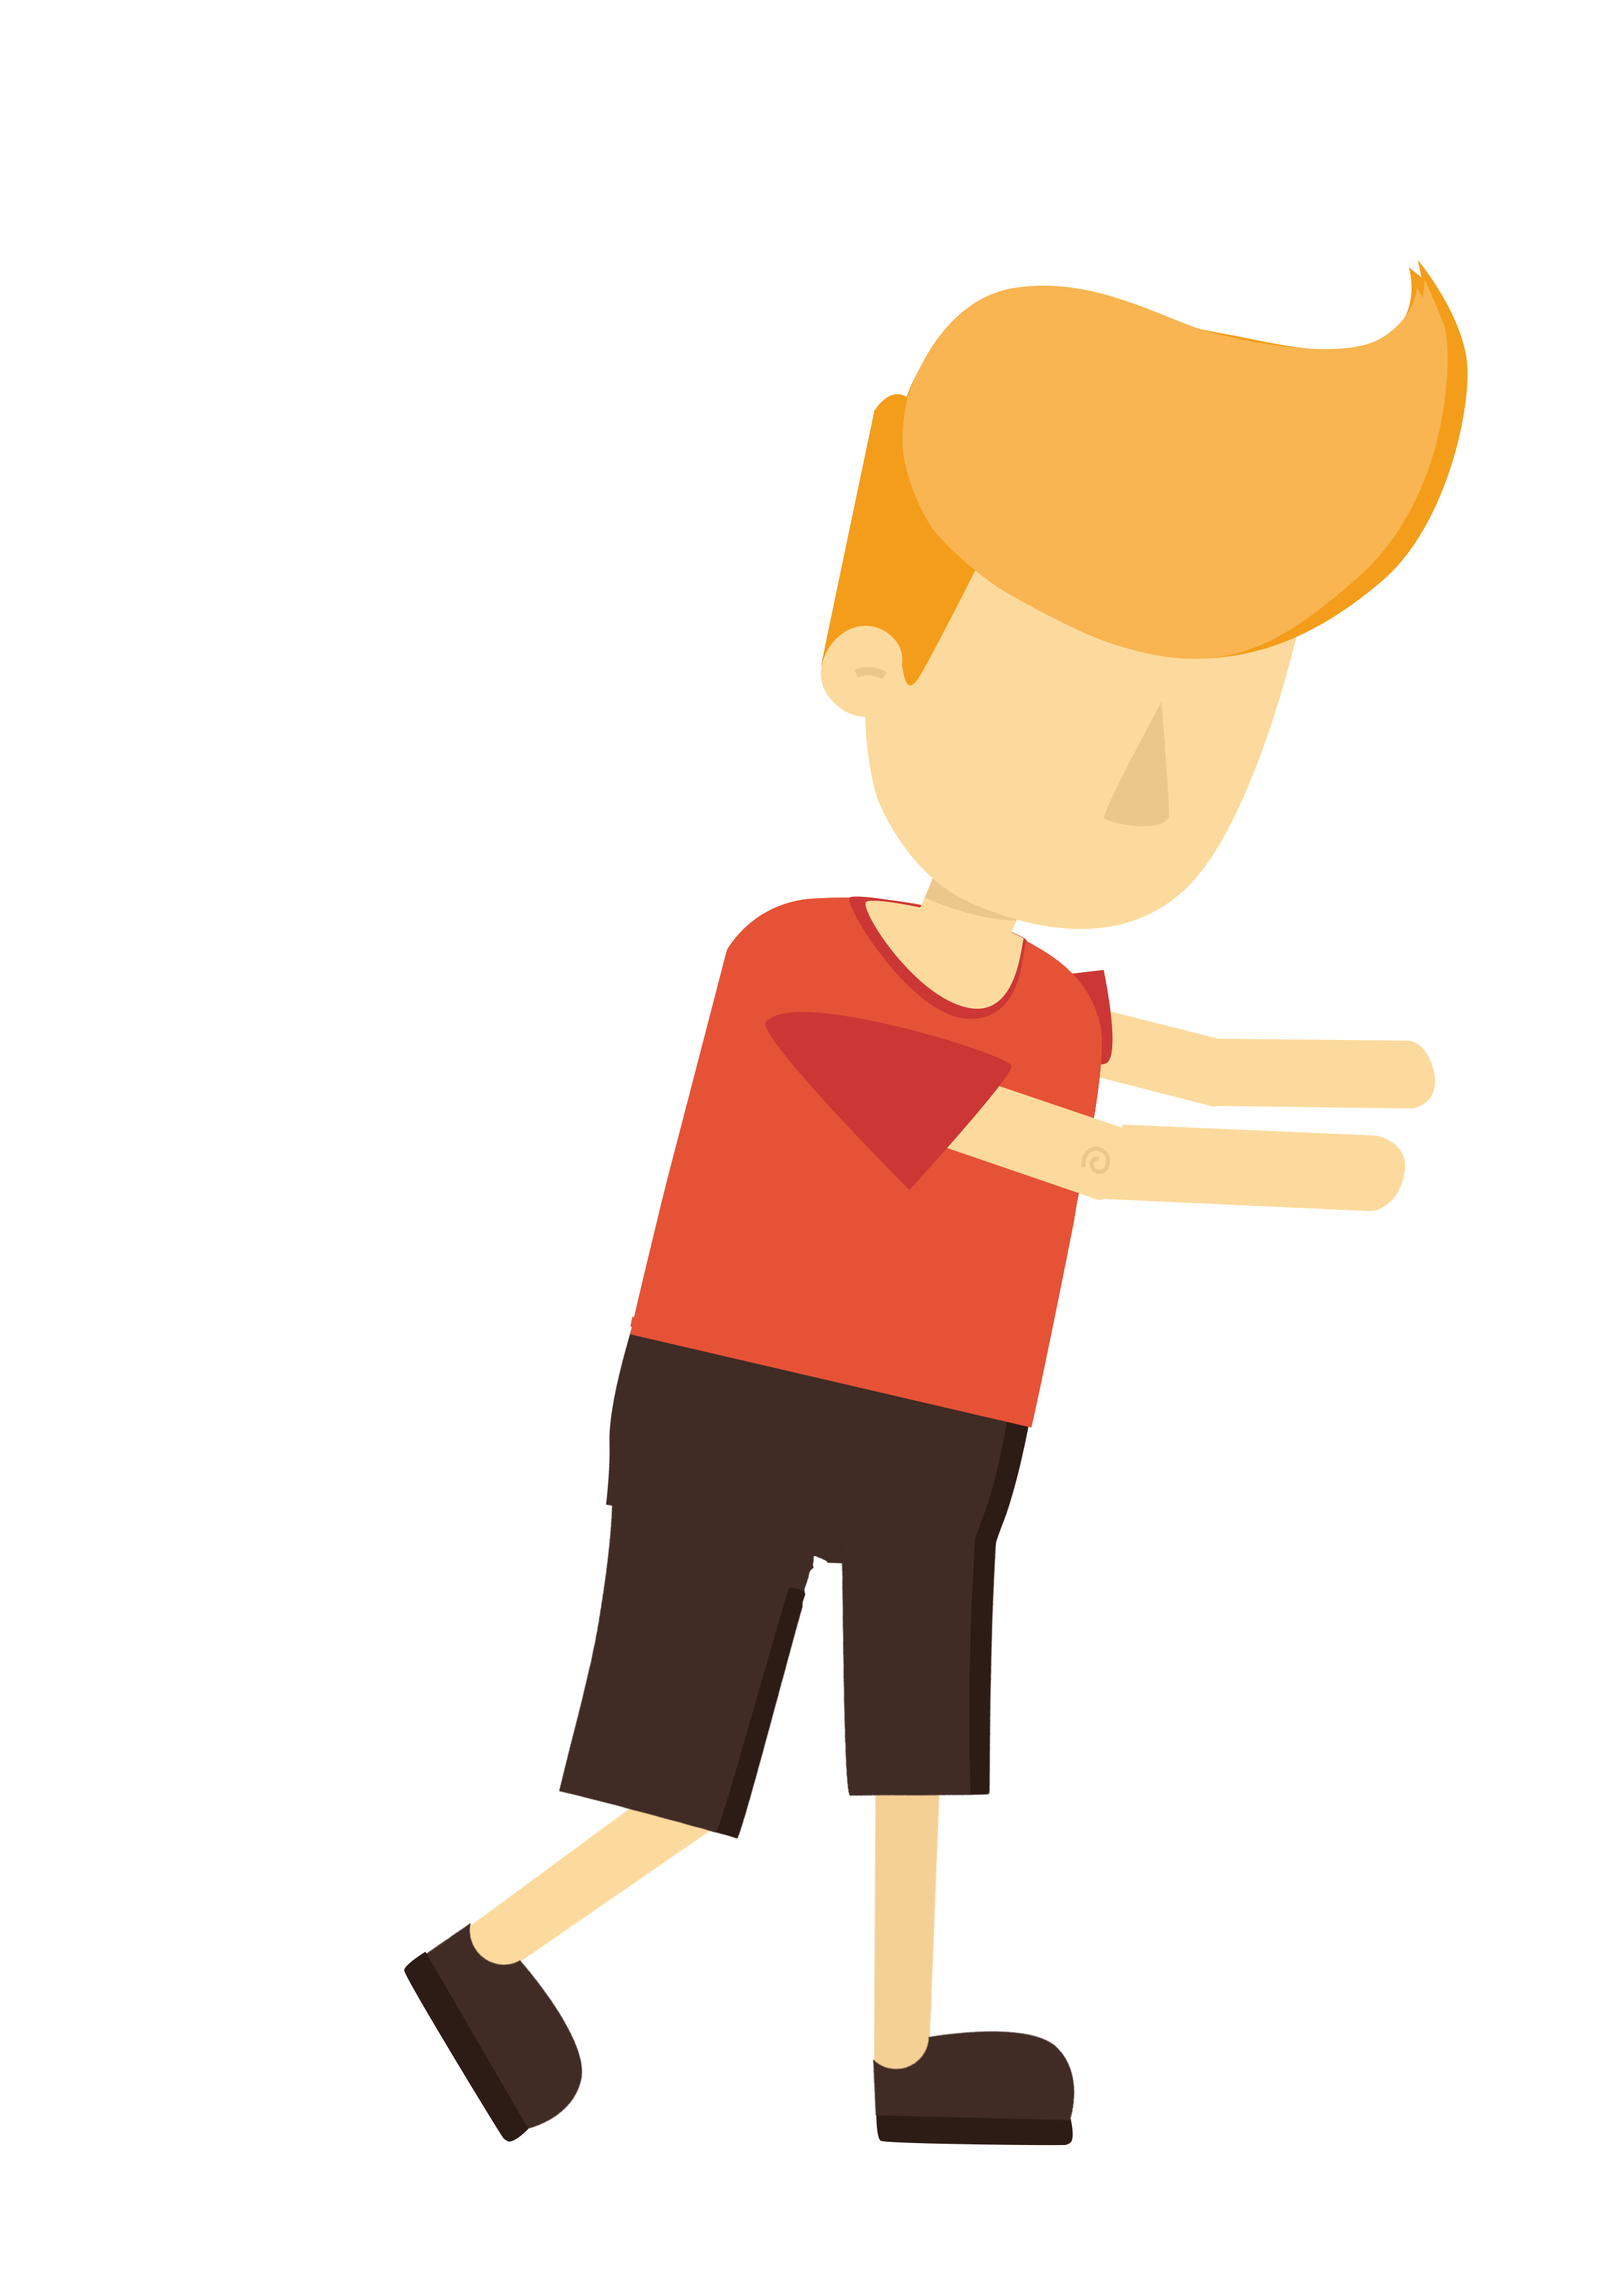
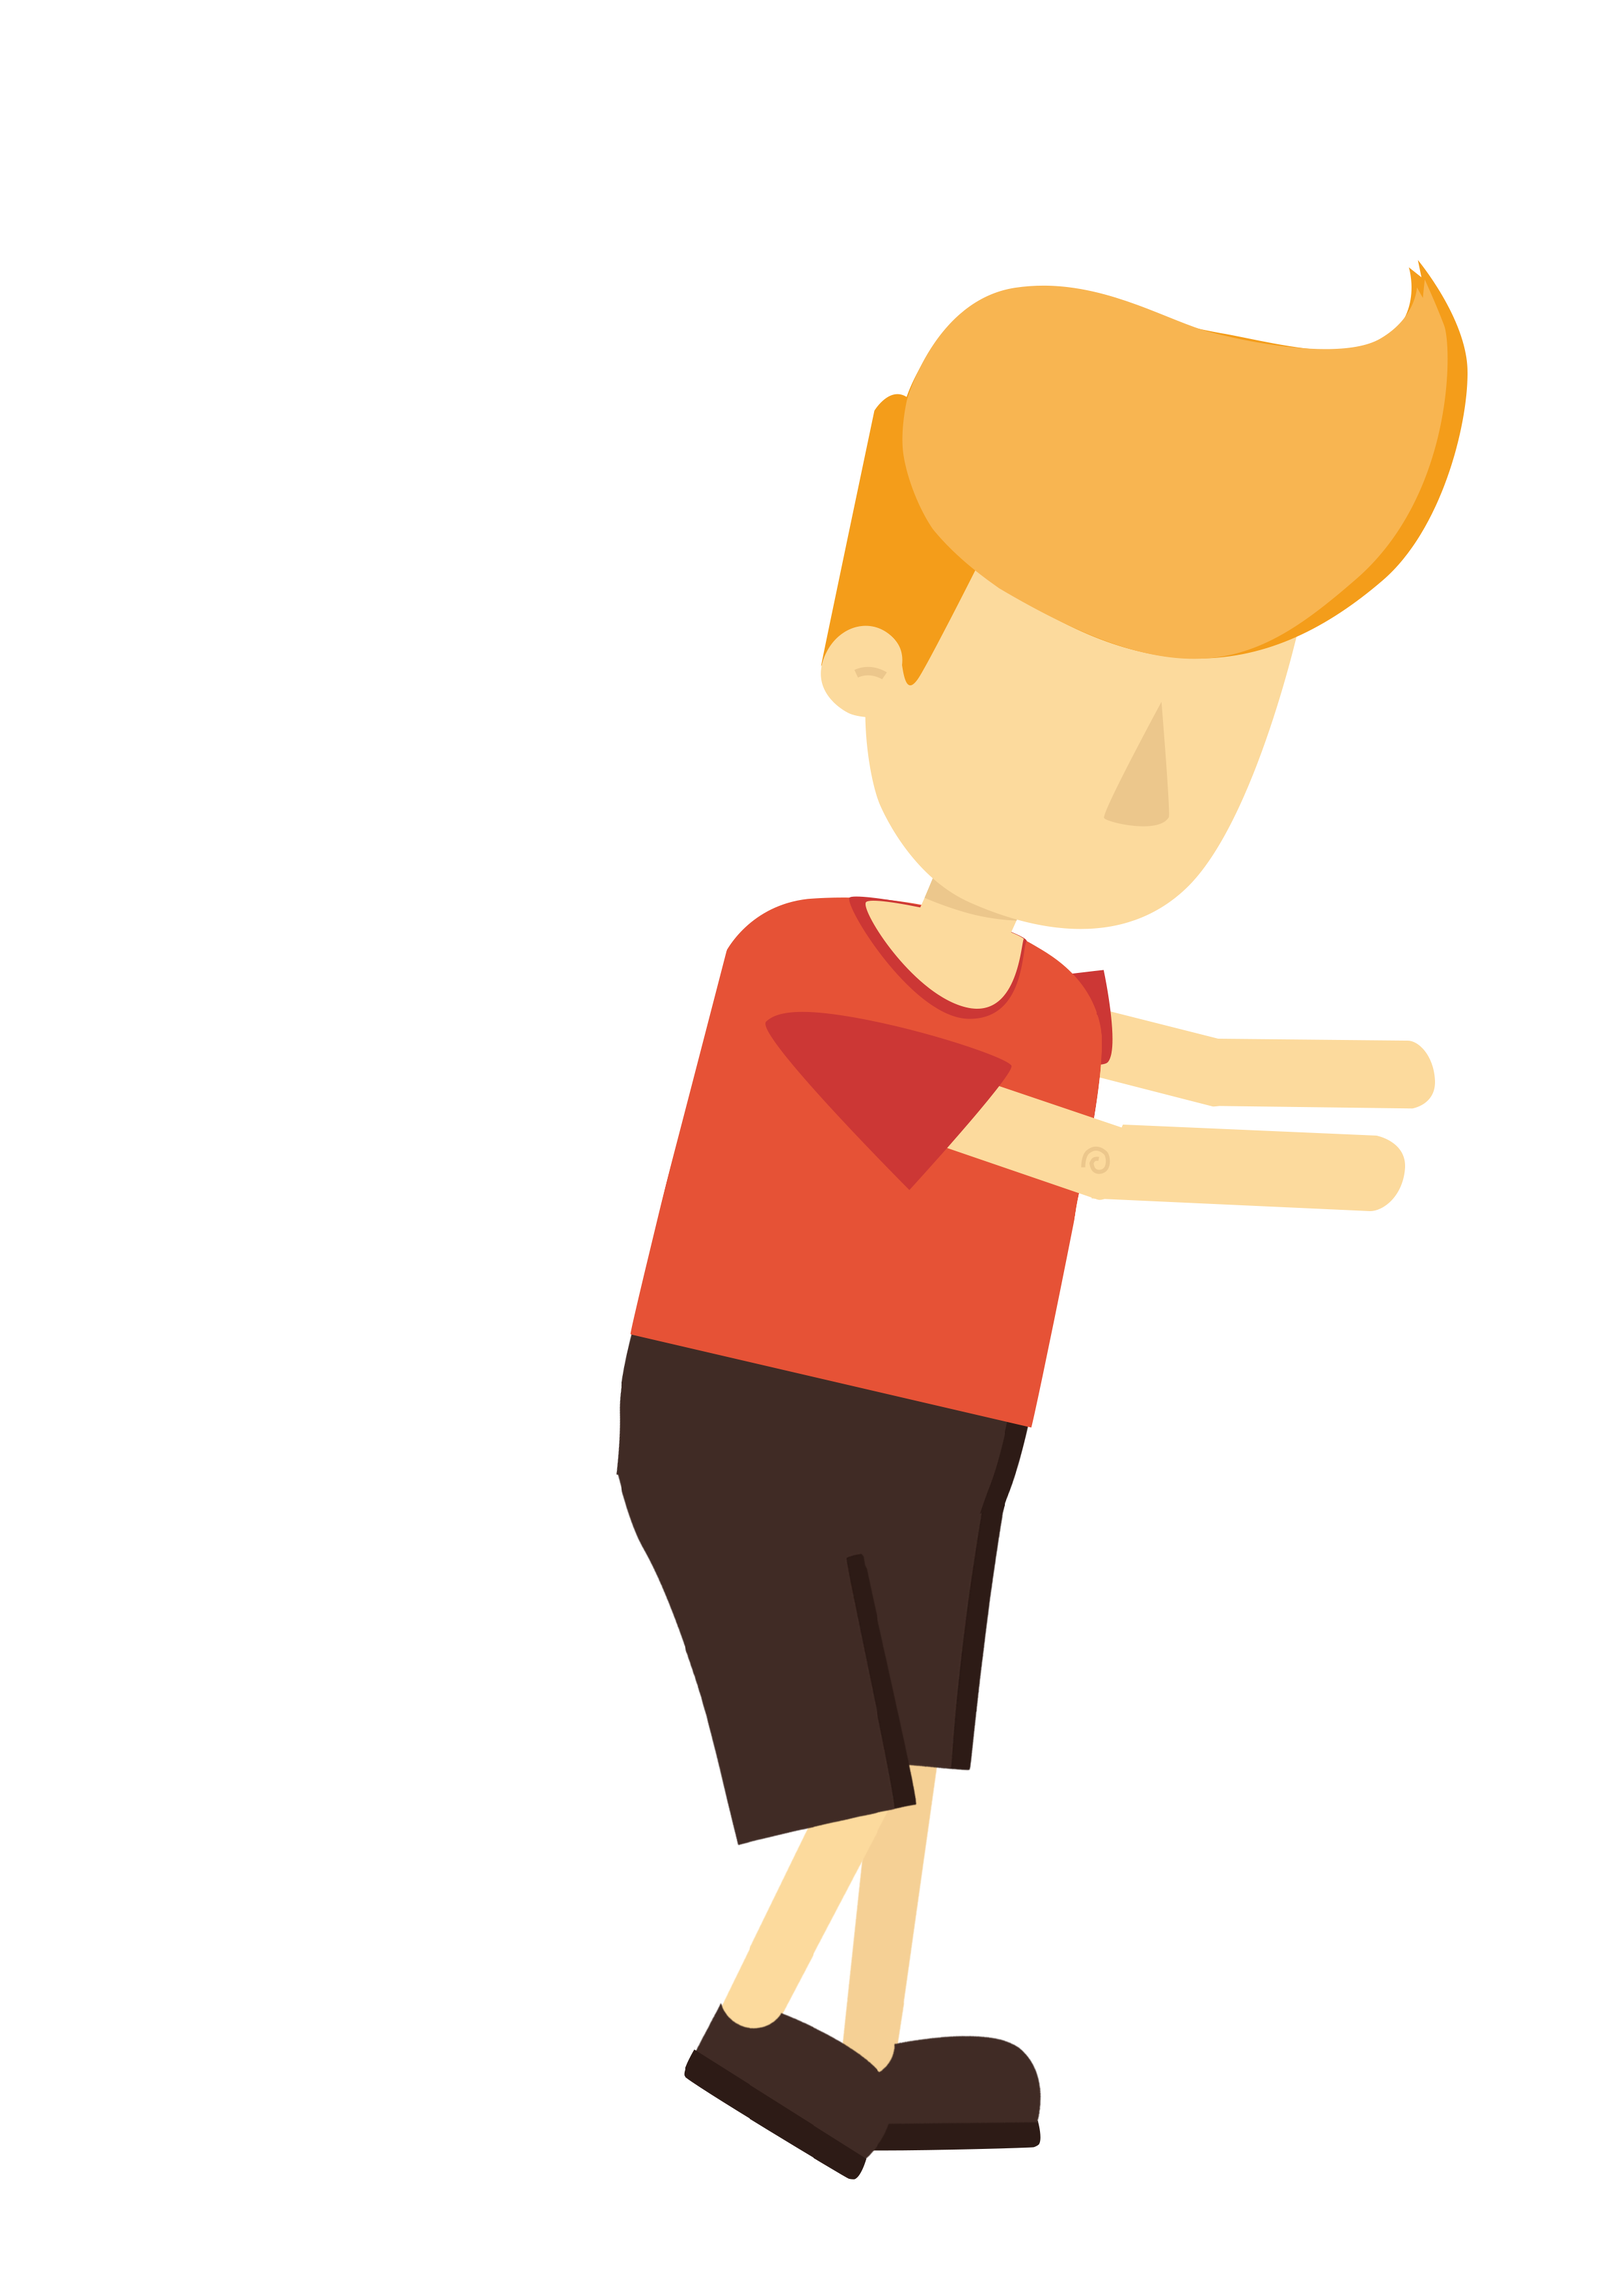
feat: add player push's state

Changed region(s): [[0.2484, 0.5904, 0.621, 0.9632], [0.621, 0.87, 0.6831, 0.9322]]

diff --git a/Assets/Script/States/PlayerStates.cs b/Assets/Script/States/PlayerStates.cs
@@ -41,6 +41,16 @@ public class PlayerIdleState : State {
             stateMachine.ChangeState("ClimbRope");
             return;
         }
+        // Push Left
+        if (script.isPlayerPushingLeft) {
+            stateMachine.ChangeState("PushLeft");
+            return;
+        }
+        // Push Right
+        if (script.isPlayerPushingRight) {
+            stateMachine.ChangeState("PushRight");
+            return;
+        }
         // Jump
         if (GameKernel.inputManager.GetKey(InputKey.Jump)) {
             stateMachine.ChangeState("Jump");
@@ -97,6 +107,16 @@ public class PlayerWalkState : State {
         // Climb Rope
         if (script.isPlayerClimbingRope) {
             stateMachine.ChangeState("ClimbRope");
+            return;
+        }
+        // Push Left
+        if (script.isPlayerPushingLeft) {
+            stateMachine.ChangeState("PushLeft");
+            return;
+        }
+        // Push Right
+        if (script.isPlayerPushingRight) {
+            stateMachine.ChangeState("PushRight");
             return;
         }
         // Jump
@@ -265,7 +285,6 @@ public class PlayerClimbLadderState : State {
     }
 }
 
-
 public class PlayerClimbRopeState : State {
     Animator animator;
     Collider2D collider;
@@ -310,5 +329,143 @@ public class PlayerClimbRopeState : State {
     public override void OnExit() {
         // Debug.Log("ClimbRope OnExit");
         animator.SetBool("IsClimbingRope", false);
+    }
+}
+
+public class PlayerPushLeftState : State {
+    Animator animator;
+    Collider2D collider;
+    Rigidbody2D body;
+    PlayerControl script;
+
+    bool isPlaying = false;
+    bool isPlayingReverse = false;
+
+    public PlayerPushLeftState() {
+        name = "PushLeft";
+    }
+
+    public override void OnEnter() {
+        // Debug.Log("PushLeft OnEnter");
+        animator = stateMachine.gameObject.GetComponent<Animator>();
+        Assert.IsNotNull(animator);
+        collider = stateMachine.gameObject.GetComponent<Collider2D>();
+        Assert.IsNotNull(collider);
+        body = stateMachine.gameObject.GetComponent<Rigidbody2D>();
+        Assert.IsNotNull(body);
+        script = stateMachine.gameObject.GetComponent<PlayerControl>();
+        Assert.IsNotNull(script);
+        
+        animator.Play("PushStop");
+        script.enableMove = false;
+    }
+
+    public override void Update() {
+        if (!script.isPlayerPushingLeft) {
+            stateMachine.ChangeState("Idle");
+            return;
+        }
+        // still PushLeft
+        if (GameKernel.inputManager.GetKey(InputKey.Left)) {
+            if (body.velocity.x >= -script.maxSpeed.x) {
+                body.AddForce(new Vector2(-script.moveImpulse, 0.0f), ForceMode2D.Impulse);
+            }
+            if (isPlaying) {
+                isPlaying = false;
+            }
+            if (!isPlayingReverse) {
+                animator.Play("PushReverse");
+                isPlayingReverse = true;
+            }
+        } else if (GameKernel.inputManager.GetKey(InputKey.Right)) {
+            if (body.velocity.x <= script.maxSpeed.x) {
+                body.AddForce(new Vector2(script.moveImpulse, 0.0f), ForceMode2D.Impulse);
+            }
+            if (isPlayingReverse) {
+                isPlayingReverse = false;
+            }
+            if (!isPlaying) {
+                animator.Play("Push");
+                isPlaying = true;
+            }
+        } else {
+            animator.Play("PushStop");
+            isPlaying = false;
+            isPlayingReverse = false;
+        }
+    }
+
+    public override void OnExit() {
+        // Debug.Log("PushLeft OnExit");
+        script.enableMove = true;
+    }
+}
+
+public class PlayerPushRightState : State {
+    Animator animator;
+    Collider2D collider;
+    Rigidbody2D body;
+    PlayerControl script;
+
+    bool isPlaying = false;
+    bool isPlayingReverse = false;
+
+    public PlayerPushRightState() {
+        name = "PushRight";
+    }
+
+    public override void OnEnter() {
+        // Debug.Log("PushRight OnEnter");
+        animator = stateMachine.gameObject.GetComponent<Animator>();
+        Assert.IsNotNull(animator);
+        collider = stateMachine.gameObject.GetComponent<Collider2D>();
+        Assert.IsNotNull(collider);
+        body = stateMachine.gameObject.GetComponent<Rigidbody2D>();
+        Assert.IsNotNull(body);
+        script = stateMachine.gameObject.GetComponent<PlayerControl>();
+        Assert.IsNotNull(script);
+        
+        animator.Play("PushStop");
+        script.enableMove = false;
+    }
+
+    public override void Update() {
+        if (!script.isPlayerPushingRight) {
+            stateMachine.ChangeState("Idle");
+            return;
+        }
+        // still PushRight
+        if (GameKernel.inputManager.GetKey(InputKey.Left)) {
+            if (body.velocity.x >= -script.maxSpeed.x) {
+                body.AddForce(new Vector2(-script.moveImpulse, 0.0f), ForceMode2D.Impulse);
+            }
+            if (isPlayingReverse) {
+                isPlayingReverse = false;
+            }
+            if (!isPlaying) {
+                animator.Play("Push");
+                isPlaying = true;
+            }
+        } else if (GameKernel.inputManager.GetKey(InputKey.Right)) {
+            if (body.velocity.x <= script.maxSpeed.x) {
+                body.AddForce(new Vector2(script.moveImpulse, 0.0f), ForceMode2D.Impulse);
+            }
+            if (isPlaying) {
+                isPlaying = false;
+            }
+            if (!isPlayingReverse) {
+                animator.Play("PushReverse");
+                isPlayingReverse = true;
+            }
+        } else {
+            animator.Play("PushStop");
+            isPlaying = false;
+            isPlayingReverse = false;
+        }
+    }
+
+    public override void OnExit() {
+        // Debug.Log("PushRight OnExit");
+        script.enableMove = true;
     }
 }

diff --git a/Assets/Script/UnityScript/PlayerControl.cs b/Assets/Script/UnityScript/PlayerControl.cs
@@ -22,6 +22,8 @@ public class PlayerControl : MonoBehaviour {
     // TODO: code not good below
     public bool isPlayerClimbingLadder = false;
     public bool isPlayerClimbingRope = false;
+    public bool isPlayerPushingLeft = false;
+    public bool isPlayerPushingRight = false;
 
 	void Start() {
         body = (Rigidbody2D)gameObject.GetComponent<Rigidbody2D>();
@@ -39,6 +41,8 @@ public class PlayerControl : MonoBehaviour {
         stateMachine.AddState(new PlayerJumpState());
         stateMachine.AddState(new PlayerClimbLadderState());
         stateMachine.AddState(new PlayerClimbRopeState());
+        stateMachine.AddState(new PlayerPushLeftState());
+        stateMachine.AddState(new PlayerPushRightState());
         stateMachine.ChangeState("Idle");
     }
 	

diff --git a/Assets/Script/Puzzles/BoxPuzzle.cs b/Assets/Script/Puzzles/BoxPuzzle.cs
@@ -38,6 +38,14 @@ public class BoxPuzzle : Puzzle
                     body.AddForce(new Vector2(100*moveImpulse, 0.0f), ForceMode2D.Impulse);
                 }
             }   
+            if (player.position.x < transform.position.x) {
+                player.GetComponent<PlayerControl>().isPlayerPushingLeft = true;
+            } else {
+                player.GetComponent<PlayerControl>().isPlayerPushingRight = true;
+            }
+        } else {
+            player.GetComponent<PlayerControl>().isPlayerPushingLeft = false;
+            player.GetComponent<PlayerControl>().isPlayerPushingRight = false;
         }
         if (GetTriggerUp())
         {
